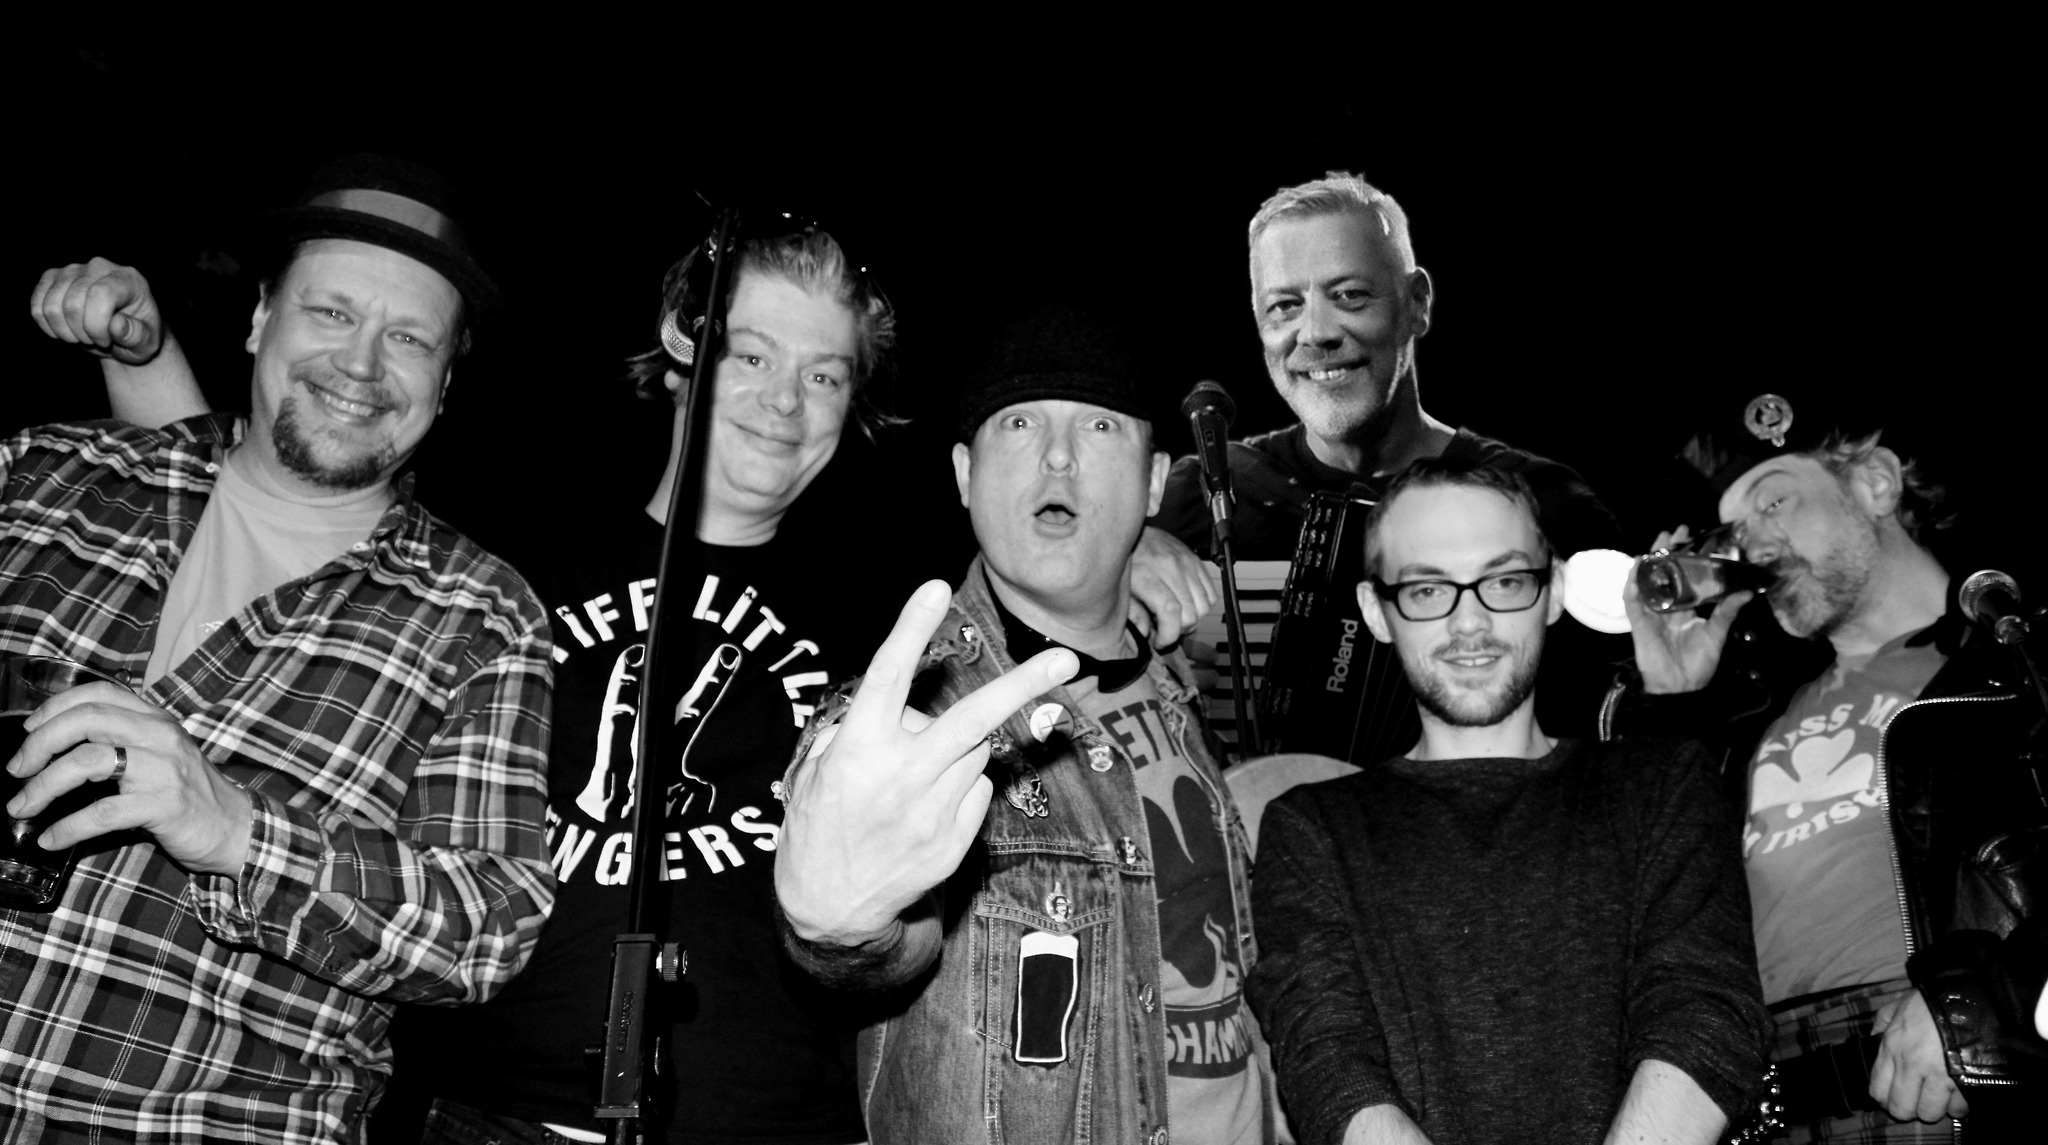
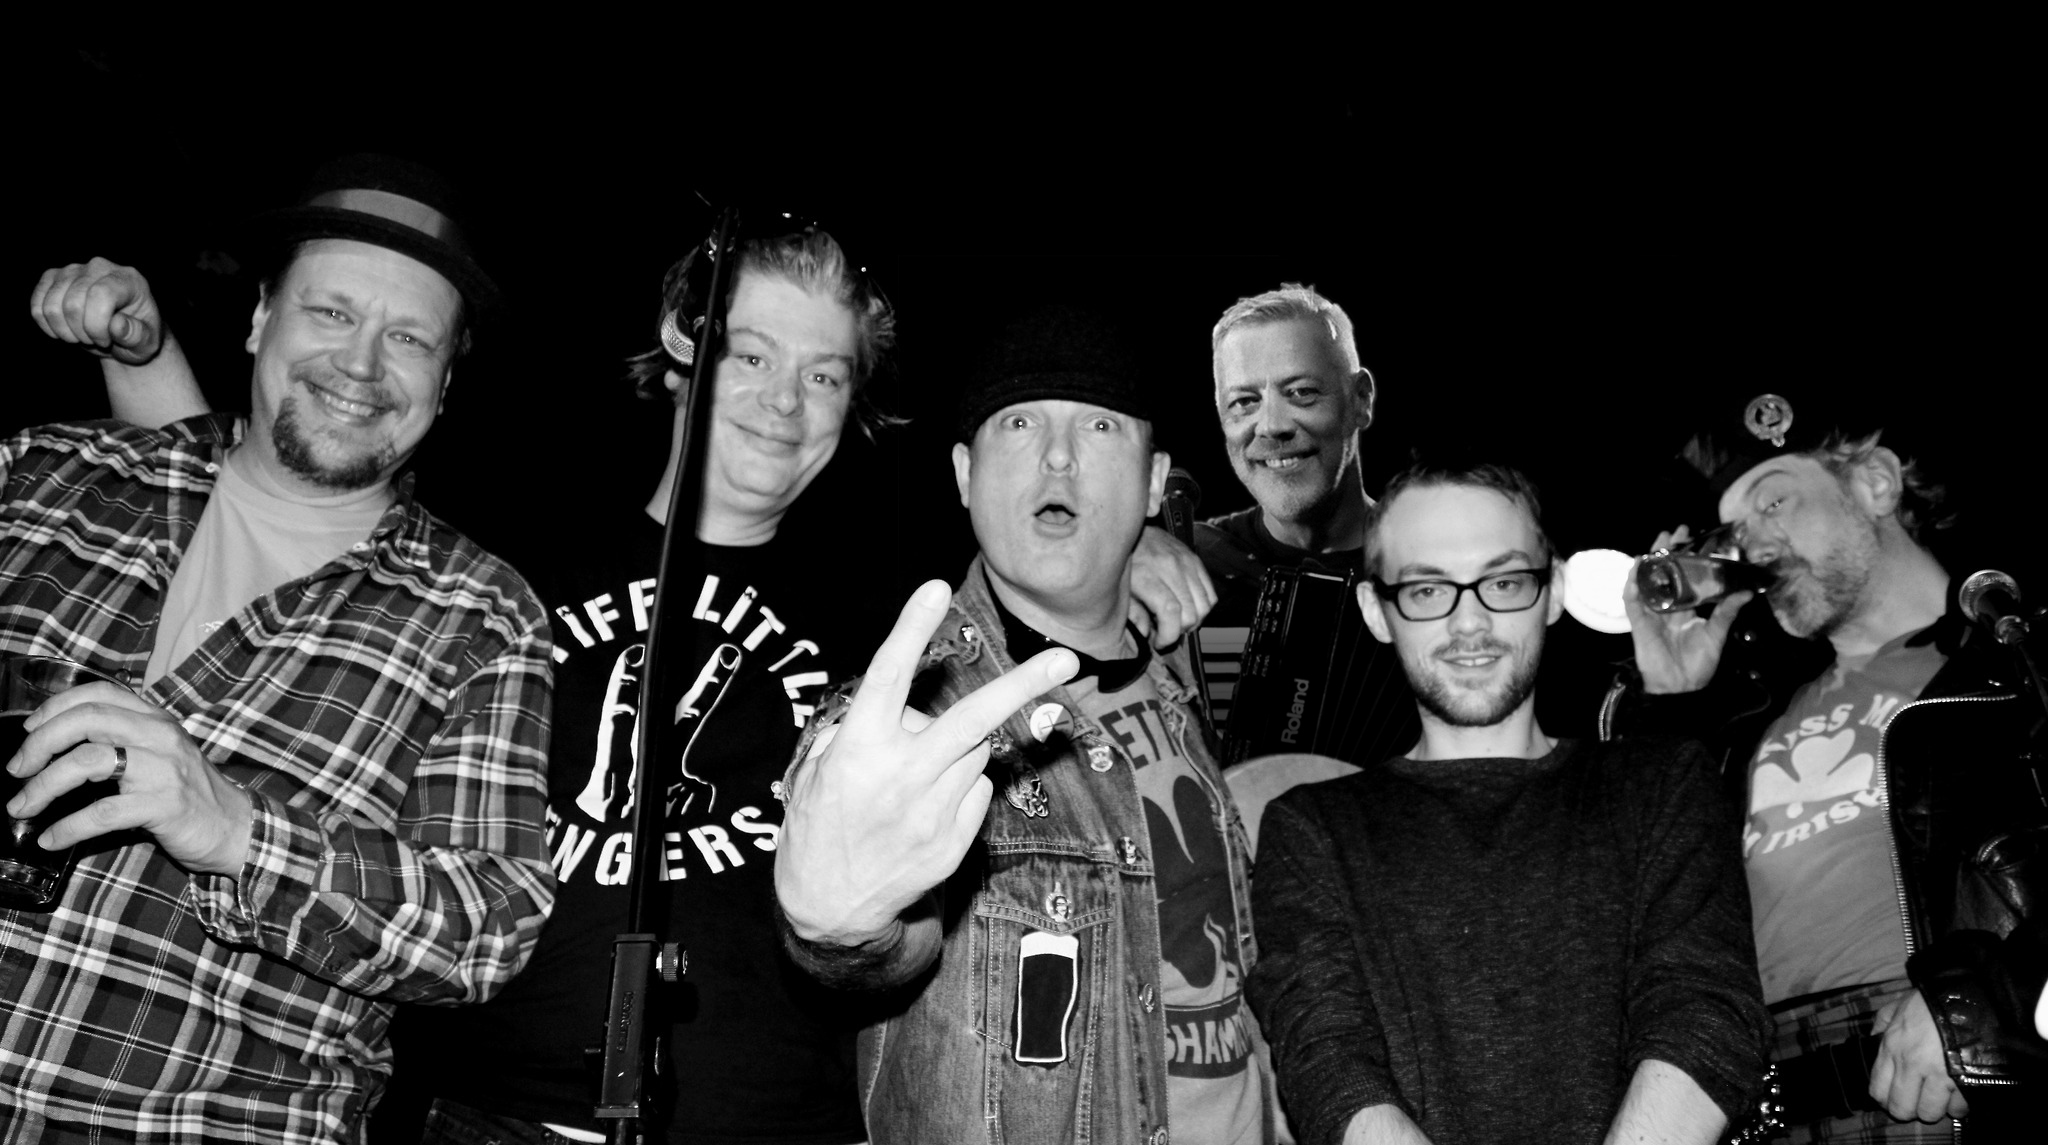
Header image

Changed region(s): [[0.5625, 0.1528, 0.75, 0.6419], [0.6562, 0.5502, 0.6875, 0.5808]]

diff --git a/index.html b/index.html
@@ -1,8 +1,41 @@
 <!DOCTYPE html>
 <html>
+<head>
+    <meta charset="UTF-8">
+    <meta name="viewport" content="width=device-width, initial-scale=1.0">
+    <title>Responsive Header Image</title>
+    <style>
+        body, html {
+    margin: 0;
+    padding: 0;
+}
+
+header {
+    position: relative;  /* Needed for absolute positioning */
+    text-align: center;  /* Center the text */
+}
+
+.header-image {
+    width: 100%;  /* Makes the image scale to full width */
+    height: auto;  /* Maintains aspect ratio */
+    display: block;  /* Removes bottom space in some browsers */
+}
+
+h1 {
+    position: absolute;  /* Positioning the text over the image */
+    top: 50%;  /* Center vertically */
+    left: 50%;  /* Center horizontally */
+    transform: translate(-50%, -50%);  /* Adjust for center */
+    color: white;  /* Text color */
+}
+    </style>
+</head>
 <body>
-<h1>Hello PADDIES</h1>
-<img src="Images/jbbq.jpg" alt="BBQ Banjoing">
-<p>Slainte.</p>
+    <header>
+        <img src="Images/Header.jpg" alt="Header Image" class="header-image">
+        <h1>Welcome Paddies!</h1>
+    </header>
+    <img src="Images/jbbq.jpg" alt="BBQ Banjoing">
+    <p>Slainte.</p>
 </body>
 </html>
